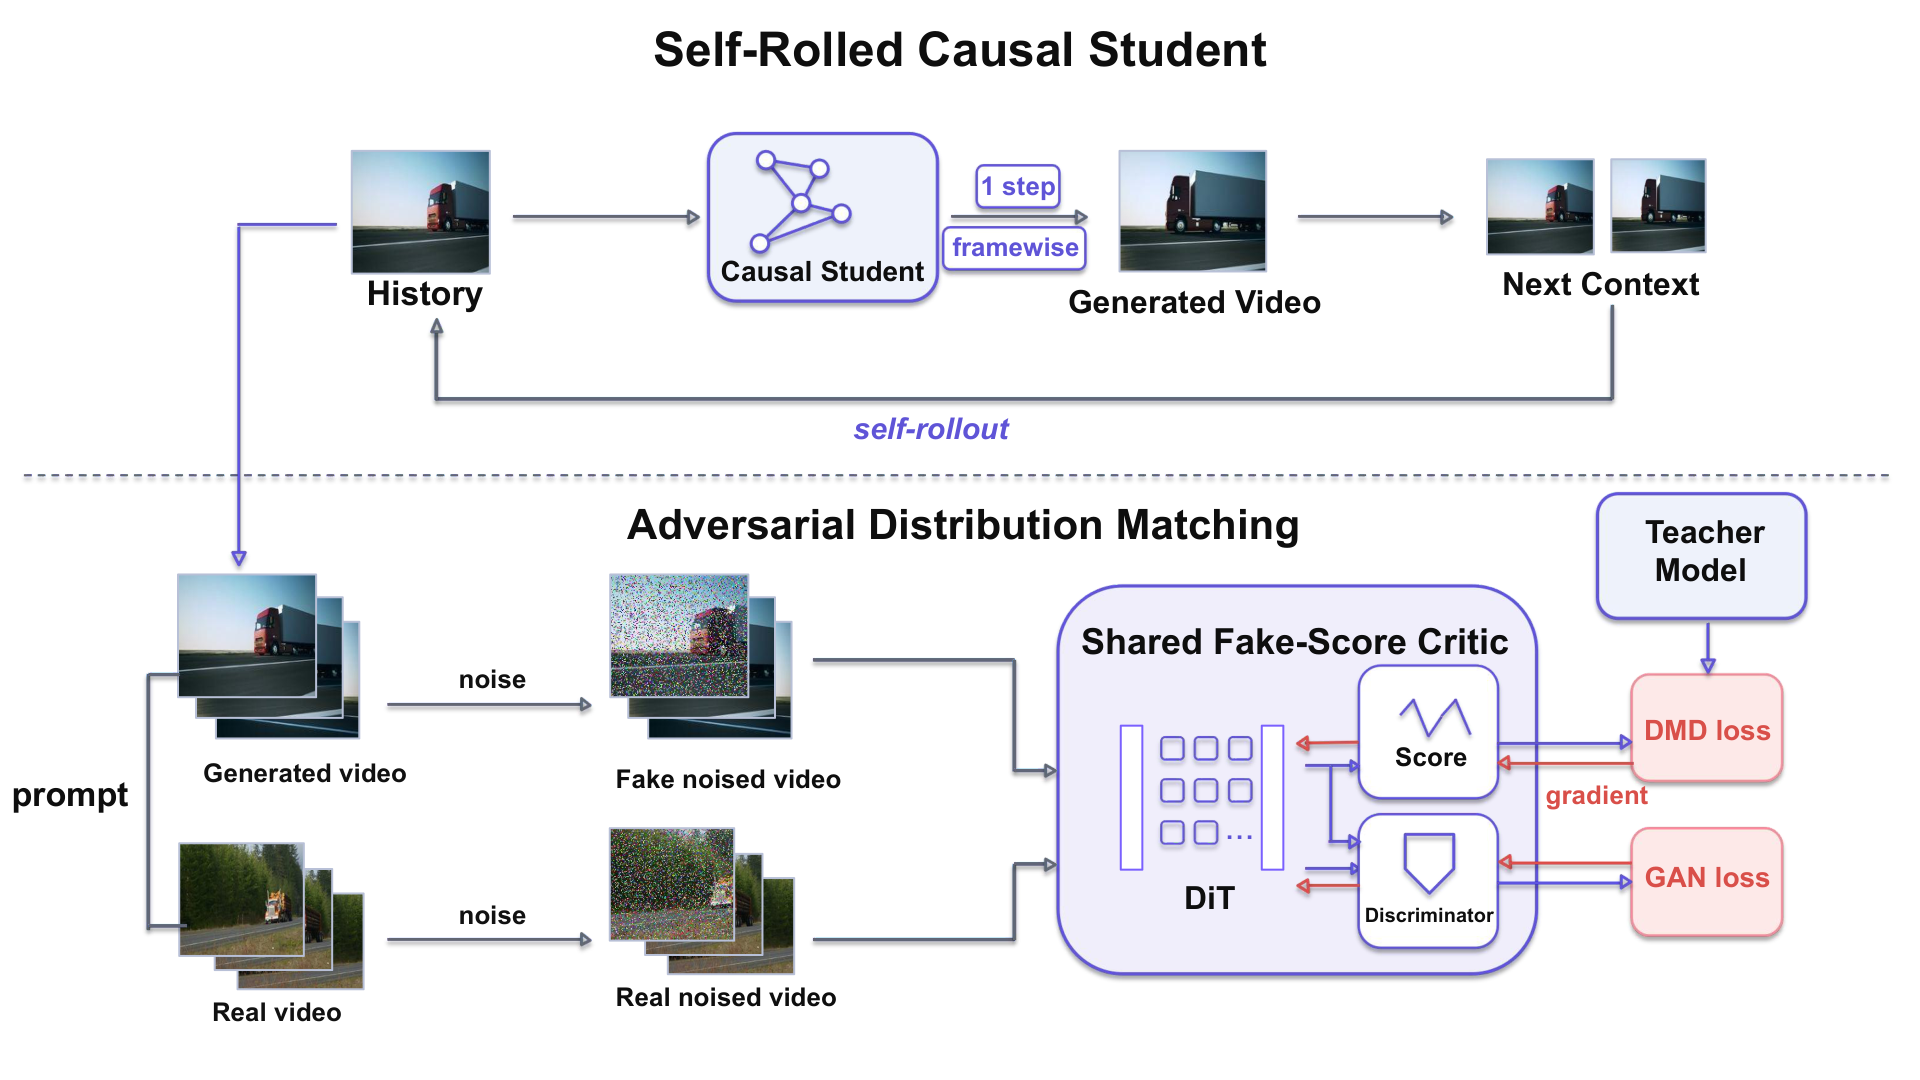
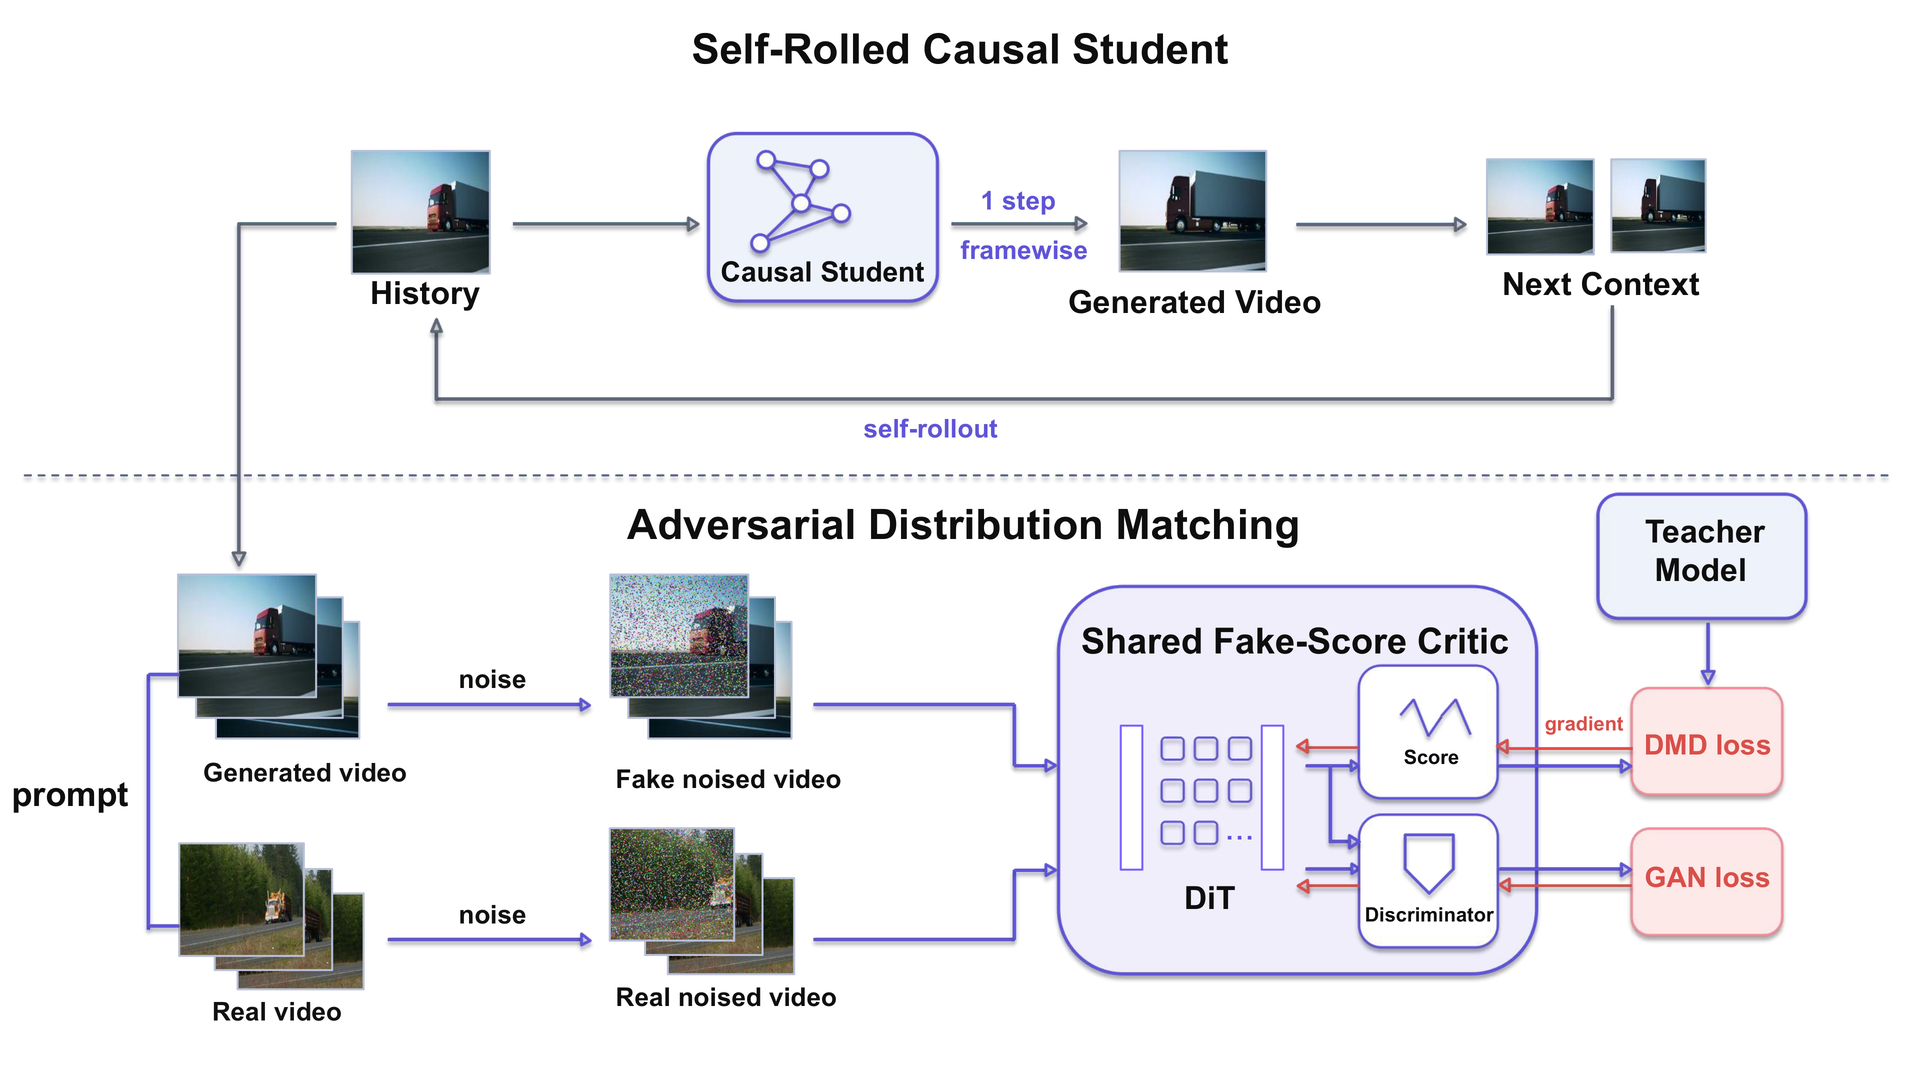
Update One-Forcing mechanism figure

diff --git a/one-forcing/index.html b/one-forcing/index.html
@@ -76,7 +76,7 @@
         <p>One-Forcing keeps the causal autoregressive generator and DMD objective, then turns the trainable fake-score network into a joint score critic and noised-latent discriminator. Real ODE latents and generated latents are noised at sampled timesteps and passed through the same transformer backbone, so adversarial feedback targets the same distribution used by the DMD gradient.</p>
       </div>
       <figure class="paper-figure">
-        <img src="assets/images/one_forcing_mechanism_redrawn_v2_aligned_color.png" alt="One-Forcing method overview with score-matching and adversarial noised-latent branches.">
+        <img src="assets/images/one_forcing_mechanism_redrawn_v2_aligned_color.png?v=20260517-1" alt="One-Forcing method overview with score-matching and adversarial noised-latent branches.">
       </figure>
     </section>
 
